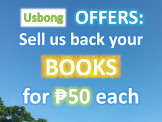
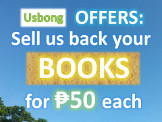
+updated: "Usbong Offers: Sell us back your books..." ad image --> increased: font size --> added: ad image in product item page --> I am looking for ways to further reduce the cost per product item, particularly the paper-based items, e.g. books. --> I had to import some of them, which makes the co

diff --git a/usbong_store/application/views/w.php b/usbong_store/application/views/w.php
@@ -37,6 +37,7 @@ defined('BASEPATH') OR exit('No direct script access allowed');
 					$reformattedProductName = str_replace(':','',str_replace('\'','',$result->name)); //remove ":" and "'"				
 					
 					$productType="books"; //default
+//					$canSellBack=false; //added by Mike, 20180304
 					switch($result->product_type_id) {
 						case 3: //beverages
 							$productType="beverages";
@@ -175,6 +176,8 @@ defined('BASEPATH') OR exit('No direct script access allowed');
 						<div>					
 						<br>
 							<img class="Product-item-page-image-offers-save-more" src="<?php echo base_url('assets/images/usbongOffersBuyMoreSaveMore_L.jpg')?>">
+						<br><br>
+						<img class="Product-item-page-image-offers-save-more" src="<?php echo base_url('assets/images/usbongOffersBuyBack_L.jpg')?>">
 						</div>															
 						
 						<div id="myPopup" class="popup-content">
